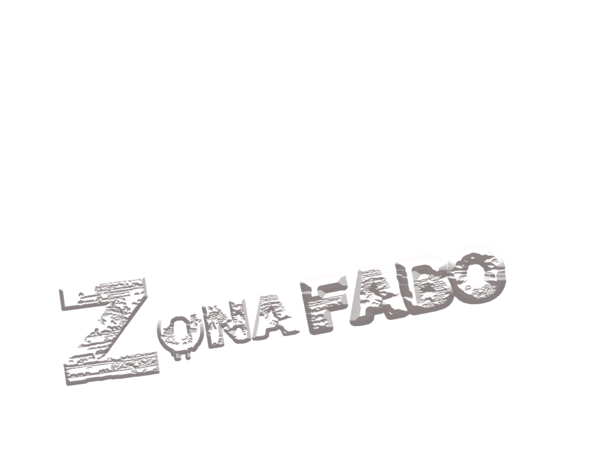
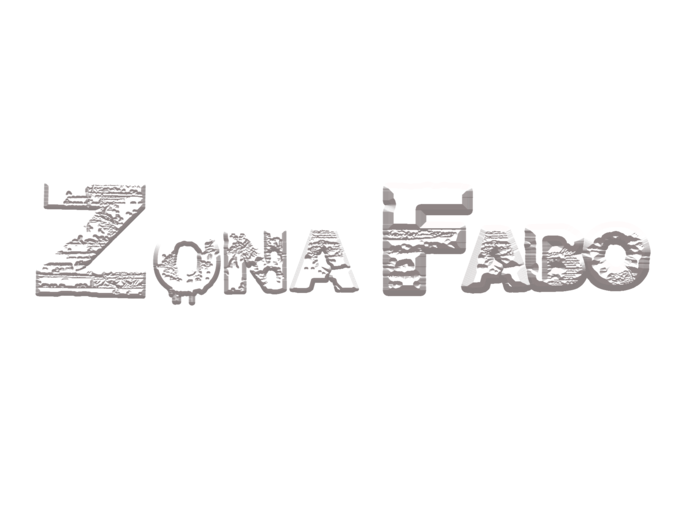
adaptacion

Changed region(s): [[0.09, 0.3422, 0.93, 0.8711], [0.03, 0.3422, 0.51, 0.5911]]

diff --git a/index.html b/index.html
@@ -24,7 +24,7 @@
     <section class="main">
         <video src="/img/bynari.mp4" autoplay loop muted type='mp4'></video>
         <img src="mask.jpg" class="mask">
-        <h2><img src="/img/predeterminada.png"/>  </h2>
+        <h2><img src="/img/predeterminada.png" class= "imagenNueva"/>  </h2>
         <p class="copyrightText">© Fabo - 2021</p>
         <ul class="sci">
             <li><a href="#"><ion-icon name="logo-github"></ion-icon></a></li>

diff --git a/style.css b/style.css
@@ -127,7 +127,7 @@ header .logo
     position: relative;
     z-index: 3;
     left: -30px;
-    bottom: 50px;
+    bottom: -30px;
     font-size: 5vw;
     color: #fff;
     text-shadow: 0 20px 30px rgba(0, 0, 0, 0.88);
@@ -198,6 +198,13 @@ header .logo
 }
 @media (max-width: 768px)
 {
+    h2 .imagenNueva{
+        
+        width: 400px;
+        height: 100%;
+        
+        
+    }
     header{
         padding: 20px;
     }
